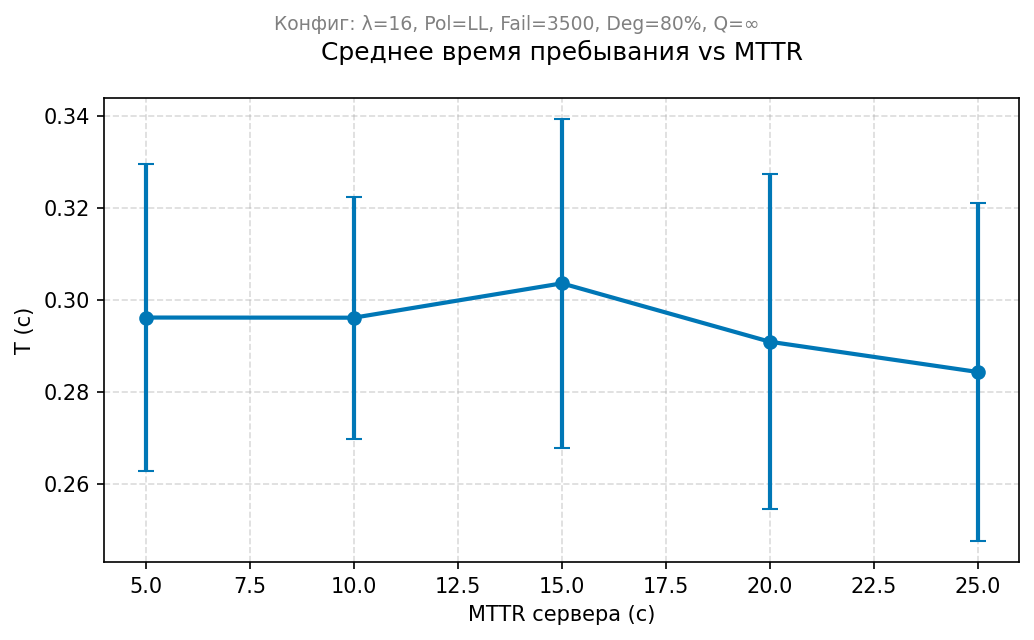
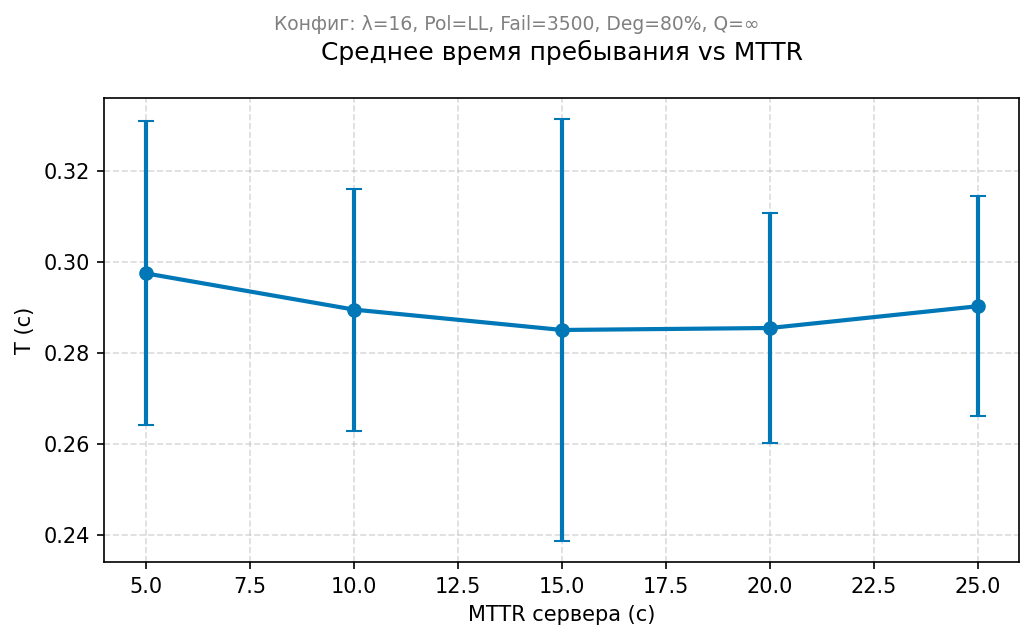
refactor simulator_v3.py

diff --git a/simulator_v3.py b/simulator_v3.py
@@ -234,6 +234,11 @@ class Node:
               ждём оставшееся время → переходим в DOWN →
               запрашиваем ремонтника → восстанавливаемся.
         """
+
+        # Начальный сдвиг — имитирует разный «возраст» узлов
+        initial_offset = self.cfg.node_mttf_fail * (self.node_id / self.cfg.num_nodes)
+        yield self.env.timeout(self.rng.exponential(initial_offset + 1.0))
+
         while True:
             mttf_degrade = self.cfg.node_mttf_fail * self.cfg.degrade_percent
             yield self.env.timeout(self.rng.exponential(mttf_degrade))
